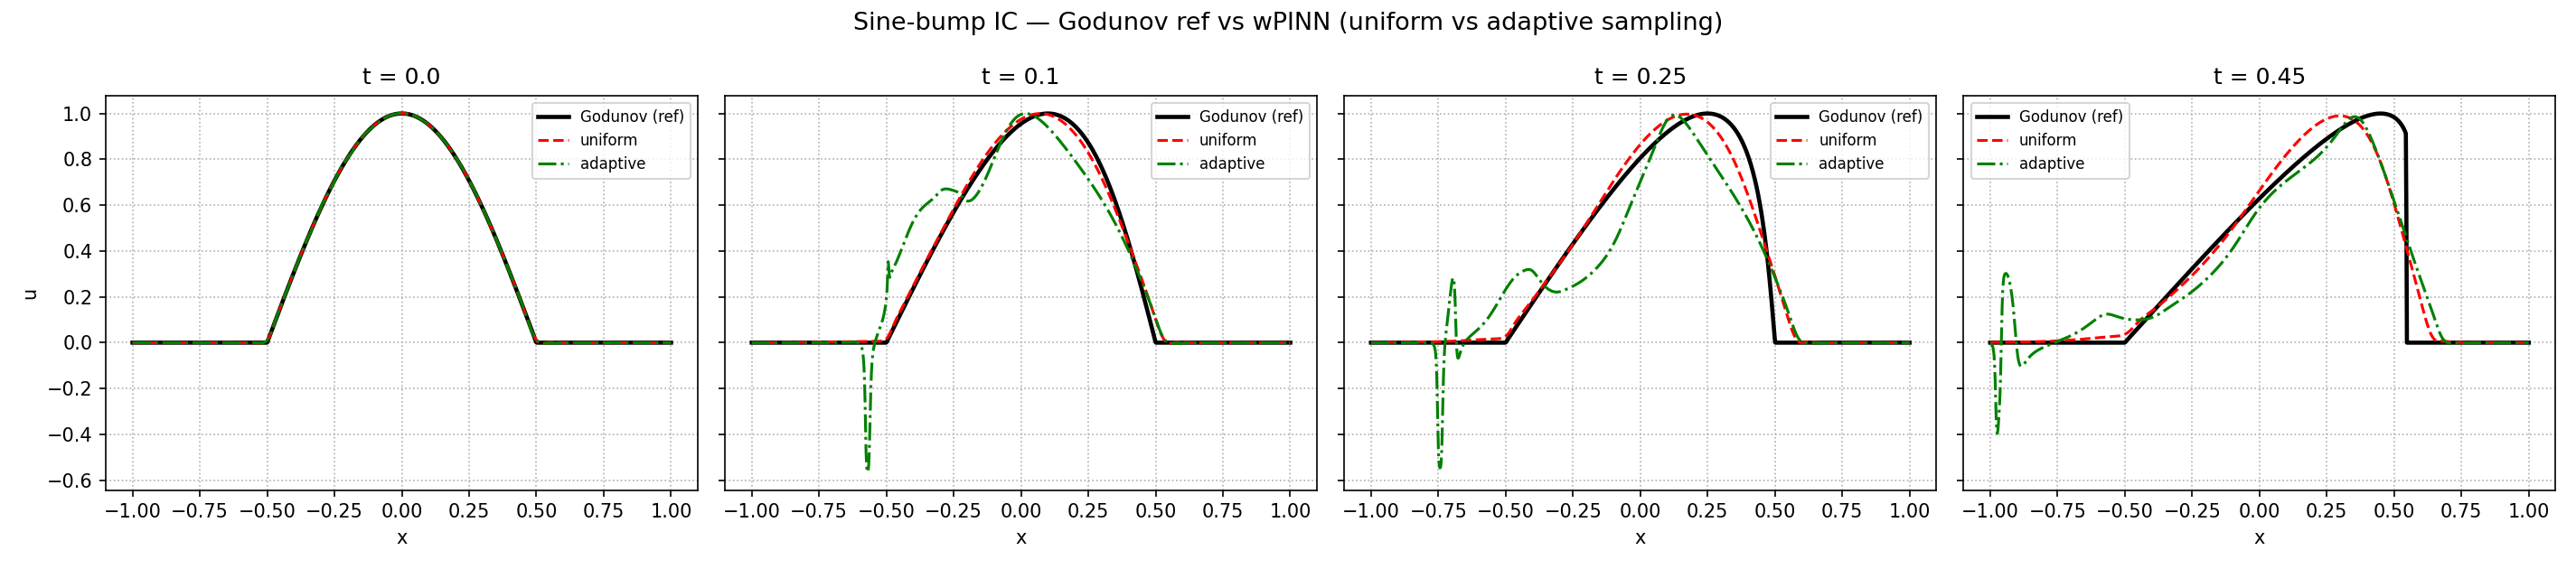
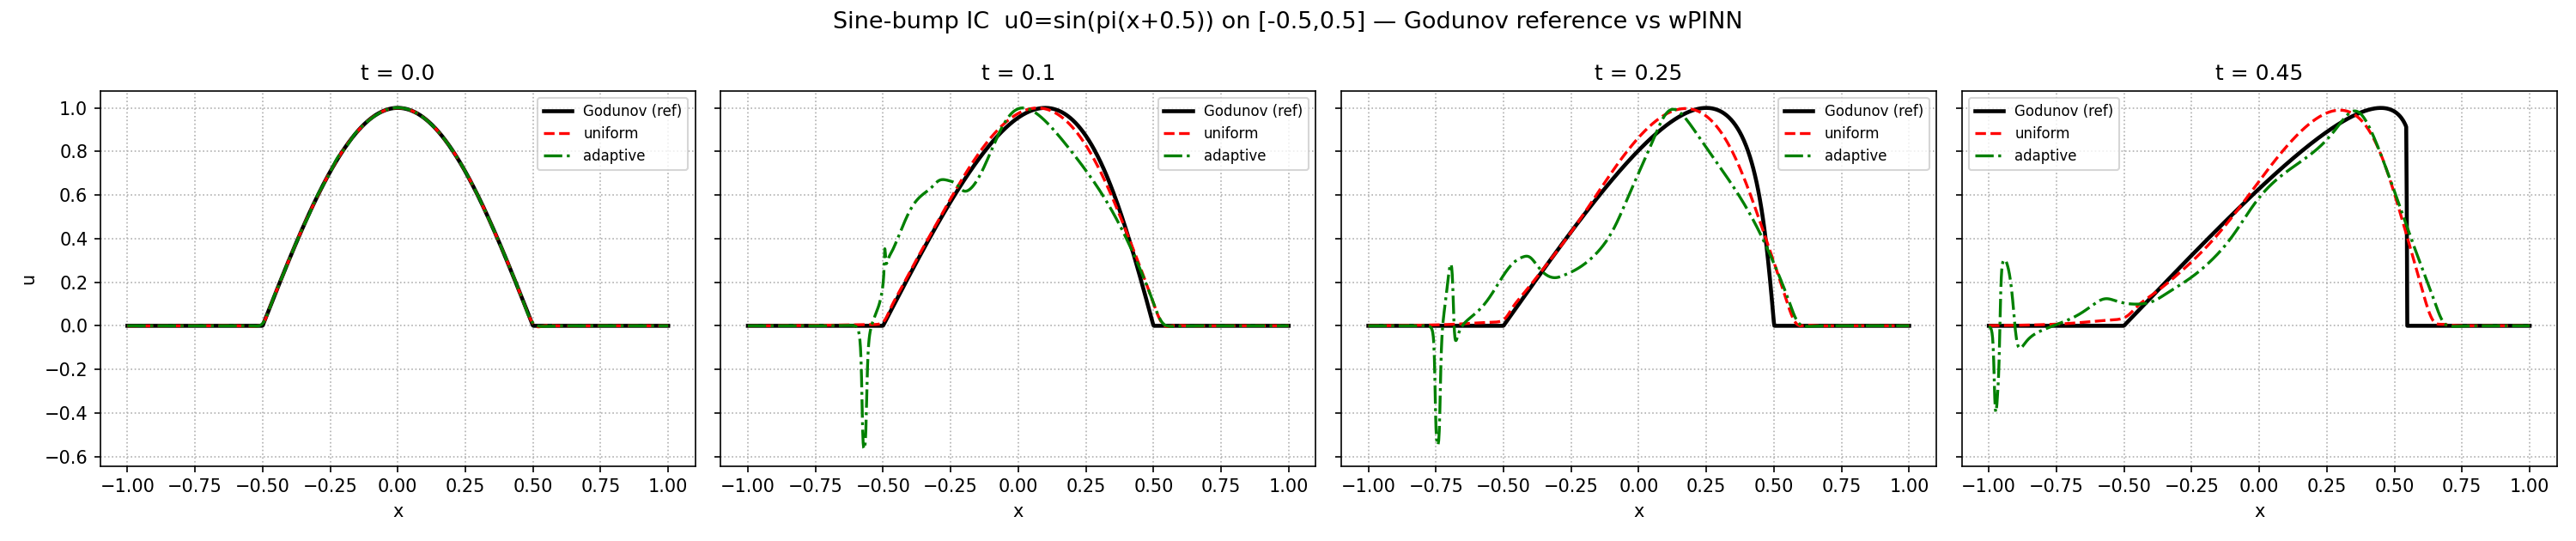
Overlay adaptive in compare_sinebump.py; add RESULTS.md
- compare_sinebump.py now regenerates both the uniform-only figure and the
  uniform-vs-adaptive overlay, and prints per-slice rel L1 for each variant
- RESULTS.md documents the sine-bump IC findings: wPINN handles it ok
  (rel L1 0.090, shock-limited) and adaptive sampling hurts (0.255), with
  the cross-case rule for when adaptive sampling helps

diff --git a/compare_sinebump.py b/compare_sinebump.py
@@ -1,8 +1,11 @@
 """
-Compare the trained sine-bump wPINN against the Godunov reference solution.
+Compare the trained sine-bump wPINN(s) against the Godunov reference solution.
 
-Regenerates comparison_sinebump.png and prints the L1 / relative-L1 errors.
-Run after train_sinebump.py has produced SineBump/best/ModelSol.pkl:
+Regenerates:
+  - comparison_sinebump.png           Godunov ref vs uniform wPINN
+  - comparison_sinebump_adaptive.png  Godunov ref vs uniform vs adaptive
+    (only if SineBump/adaptive/ModelSol.pkl exists)
+and prints the per-slice relative-L1 error for each available variant.
 
     python3 compare_sinebump.py
 """
@@ -16,13 +19,47 @@ import matplotlib.pyplot as plt
 
 import godunov
 
-MODEL = "SineBump/best/ModelSol.pkl"
 TIMES = [0.0, 0.10, 0.25, 0.45]
+# (label, path, matplotlib style)
+VARIANTS = [
+    ("uniform", "SineBump/best/ModelSol.pkl", "r--"),
+    ("adaptive", "SineBump/adaptive/ModelSol.pkl", "g-."),
+]
+
+
+def load(path):
+    m = torch.load(path, map_location="cpu", weights_only=False)
+    m.eval()
+    return m
+
+
+def pred(model, x, t):
+    inp = torch.tensor(np.column_stack([np.full_like(x, t), x]), dtype=torch.float32)
+    with torch.no_grad():
+        return model(inp).numpy().reshape(-1)
+
+
+def slice_plot(x, ref, loaded, png):
+    fig, axes = plt.subplots(1, len(TIMES), figsize=(5 * len(TIMES), 4.2), sharey=True)
+    fig.suptitle("Sine-bump IC  u0=sin(pi(x+0.5)) on [-0.5,0.5] — Godunov reference vs wPINN", fontsize=13)
+    for ax, t in zip(axes, TIMES):
+        ax.plot(x, ref(x, t), "k-", lw=2.2, label="Godunov (ref)")
+        for name, m, style in loaded:
+            ax.plot(x, pred(m, x, t), style, lw=1.6, label=name)
+        ax.set_title(f"t = {t}")
+        ax.set_xlabel("x")
+        ax.grid(True, ls=":")
+        ax.legend(fontsize=8)
+    axes[0].set_ylabel("u")
+    plt.tight_layout()
+    plt.savefig(png, dpi=150)
+    print(f"saved {png}")
 
 
 def main():
-    if not os.path.exists(MODEL):
-        raise SystemExit(f"Model not found at '{MODEL}'. Run train_sinebump.py first.")
+    available = [(n, load(p), s) for n, p, s in VARIANTS if os.path.exists(p)]
+    if not available:
+        raise SystemExit("No SineBump models found. Run train_sinebump.py first.")
 
     # Godunov reference field (ground truth — Burgers has no closed form here)
     xg, tv, U = godunov.godunov("SineBump", nx=2000, cfl=0.9)
@@ -31,41 +68,21 @@ def main():
         j = int(np.argmin(np.abs(tv - t)))
         return np.interp(x, xg, U[j])
 
-    model = torch.load(MODEL, map_location="cpu", weights_only=False)
-    model.eval()
-
-    def pred(x, t):
-        inp = torch.tensor(np.column_stack([np.full_like(x, t), x]), dtype=torch.float32)
-        with torch.no_grad():
-            return model(inp).numpy().reshape(-1)
-
     x = np.linspace(-1, 1, 1000)
 
-    fig, axes = plt.subplots(1, len(TIMES), figsize=(5 * len(TIMES), 4.2), sharey=True)
-    fig.suptitle("Sine-bump IC  u0=sin(pi(x+0.5)) on [-0.5,0.5] — Godunov reference vs wPINN", fontsize=13)
-    for ax, t in zip(axes, TIMES):
-        ax.plot(x, ref(x, t), "k-", lw=2.2, label="Godunov (ref)")
-        ax.plot(x, pred(x, t), "b--", lw=1.6, label="wPINN")
-        ax.set_title(f"t = {t}")
-        ax.set_xlabel("x")
-        ax.grid(True, ls=":")
-        ax.legend(fontsize=8)
-    axes[0].set_ylabel("u")
-    plt.tight_layout()
-    plt.savefig("comparison_sinebump.png", dpi=150)
-    print("saved comparison_sinebump.png")
+    # uniform-only figure (kept for the baseline comparison)
+    uni = [v for v in available if v[0] == "uniform"]
+    if uni:
+        slice_plot(x, ref, uni, "comparison_sinebump.png")
+    # uniform-vs-adaptive overlay (only if both exist)
+    if len(available) > 1:
+        slice_plot(x, ref, available, "comparison_sinebump_adaptive.png")
 
-    # global range + per-slice relative L1
-    gmin, gmax = 1e9, -1e9
-    for t in np.linspace(0.01, 0.45, 46):
-        u = pred(x, t)
-        gmin, gmax = min(gmin, u.min()), max(gmax, u.max())
-    print(f"wPINN global u range: [{gmin:.3f}, {gmax:.3f}]  (physical band is [0, 1])")
-    print(f"{'t':>6} {'rel L1':>10}")
-    for t in [0.10, 0.25, 0.45]:
-        r, u = ref(x, t), pred(x, t)
-        rel = godunov.relative_l1_error(u, r)
-        print(f"{t:>6} {rel:>10.4f}")
+    # per-slice relative L1 per variant
+    print(f"\n{'variant':10s} {'relL1@.10':>10} {'relL1@.25':>10} {'relL1@.45':>10}")
+    for name, m, style in available:
+        row = [godunov.relative_l1_error(pred(m, x, t), ref(x, t)) for t in (0.10, 0.25, 0.45)]
+        print(f"{name:10s} " + " ".join(f"{v:>10.4f}" for v in row))
 
 
 if __name__ == "__main__":

diff --git a/RESULTS.md b/RESULTS.md
@@ -1,0 +1,83 @@
+# Sine-bump initial condition — wPINNs on Burgers
+
+How well does the wPINN handle a richer, non-textbook initial condition, and does
+residual-adaptive collocation sampling help?
+
+## Initial condition
+
+A half-sine hump in the middle of the domain, zero elsewhere:
+
+```
+u0(x) = sin(pi*(x + 0.5))   for |x| <= 0.5   (peak 1 at x=0, 0 at x=+-0.5)
+u0(x) = 0                   otherwise
+```
+
+on `x in [-1, 1]`, `t in [0, 0.45]`. As a Burgers wave the hump **steepens into a
+shock on its trailing (right) edge** while the leading (left) edge **rarefies**.
+There is no closed-form entropy solution, so a fine-grid **Godunov** run
+(`godunov.py`, case `SineBump`) is the ground-truth reference.
+
+Models / scripts:
+- `train_sinebump.py` — trains the wPINN (3000 epochs); `WPINN_ADAPTIVE=1` for the
+  adaptive variant. Writes `SineBump/best` (uniform) or `SineBump/adaptive`.
+- `compare_sinebump.py` — regenerates the plots and per-slice errors.
+
+## Result 1 — wPINN on the sine-bump IC (uniform sampling)
+
+Global rel L1 = **0.090** vs the Godunov reference. The error is **dominated by the
+forming shock** and grows with time as the shock sharpens:
+
+| t | rel L1 |
+|---|---|
+| 0.10 | 0.042 |
+| 0.25 | 0.101 |
+| 0.45 | 0.164 |
+
+The wPINN captures the hump and the rarefying left side well, but **smears the shock
+and lags its position** (peak at x≈0.35 vs the true x≈0.55 at t=0.45). It stays
+physical (`u` in ~[0, 1]). See `comparison_sinebump.png`.
+
+## Result 2 — residual-adaptive sampling makes it WORSE
+
+Applying the residual-adaptive sampler (which gave a ~6× win on the pure moving
+shock) **hurts** here:
+
+| variant | rel L1 @ .10 | rel L1 @ .25 | rel L1 @ .45 | global rel L1 |
+|---|---|---|---|---|
+| uniform  | 0.042 | 0.101 | 0.164 | **0.090** |
+| adaptive | 0.209 | 0.327 | 0.260 | 0.255 (~3x worse) |
+
+The adaptive solution is **wildly oscillatory** across the whole domain (see
+`comparison_sinebump_adaptive.png`). Concentrating points on the forming shock
+**starves the bump's broad smooth structure** — the hump, the rarefying left side,
+the flat zeros — which then fills with Gibbs-like oscillations. Those cost far more
+than sharpening the shock saves.
+
+## Conclusion — when adaptive sampling helps
+
+Across three solution types tested in this project:
+
+| Solution | Character | Adaptive effect |
+|---|---|---|
+| Moving shock | near-trivial field + 1 shock | ~6x better |
+| Rarefaction | all smooth | ~1.6x worse |
+| **Sine bump** | rich smooth structure + forming shock | **~3x worse** |
+
+The deciding factor is **not** simply "is there a discontinuity," but the **ratio of
+sharp localized feature to smooth structure that needs coverage**:
+
+- **Near-trivial field with one sharp feature** → adaptive sampling wins big (all the
+  spare resolution goes to the only hard region).
+- **Substantial smooth structure** → concentrating points starves it and backfires,
+  whether or not a shock is also present.
+
+So adaptive collocation sampling is a targeted tool for shock-dominated problems on
+otherwise-trivial fields, not a general-purpose improvement.
+
+## Reproduce
+
+```bash
+python3 train_sinebump.py                    # uniform  -> SineBump/best
+WPINN_ADAPTIVE=1 python3 train_sinebump.py   # adaptive -> SineBump/adaptive
+python3 compare_sinebump.py                  # plots + error tables
+```